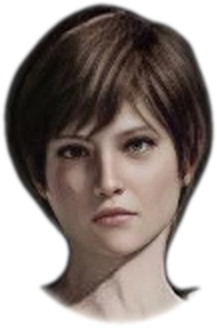
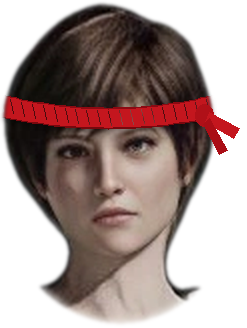
v3.68 : Rebecca — croix rouge médicale sur le gilet, bandeau rouge au front
Claude-Session: https://claude.ai/code/session_01WYc8bcxVUTnPR8YQxCHawi

diff --git a/public/matrice.js b/public/matrice.js
@@ -221,7 +221,8 @@ export function dessinerBonhomme(o, tete) {
         x.fillStyle = "#e9e6dd"; x.beginPath(); x.moveTo(64, 150); x.lineTo(84, 150); x.quadraticCurveTo(100, 170, 116, 150); x.lineTo(136, 150); x.lineTo(140, 258); x.lineTo(60, 258); x.closePath(); x.fill();
         x.fillStyle = "#1c1c1c"; x.fillRect(66, 146, 9, 36); x.fillRect(125, 146, 9, 36); for (const [a, b2] of [[60, 206], [130, 206], [70, 240], [94, 240], [118, 240]]) x.fillRect(a, b2, 12, 14);
         x.strokeStyle = "rgba(0,0,0,.18)"; x.lineWidth = 2; x.beginPath(); x.moveTo(100, 172); x.lineTo(100, 256); x.stroke(); poche(126, 252, 18, 22, "#e9e6dd");
-        x.fillStyle = "#2a2c26"; x.fillRect(68, 300, 26, 22); x.fillRect(106, 300, 26, 22); }   // les poches cargo
+        x.fillStyle = "#2a2c26"; x.fillRect(68, 300, 26, 22); x.fillRect(106, 300, 26, 22);   // les poches cargo
+        x.fillStyle = "#f4f2ec"; x.fillRect(77, 177, 20, 20); x.fillStyle = "#d4161e"; x.fillRect(84, 179, 6, 16); x.fillRect(79, 184, 16, 6); }   // la croix rouge médicale, sur la poitrine droite
       if (t === "leon") {   // l'uniforme bleu du R.P.D., le gilet pare-balles noir à rivets, la bandoulière en cuir, le ceinturon et l'étui de cuisse
         x.fillStyle = "#151517"; x.beginPath(); x.roundRect(62, 152, 76, 92, 10); x.fill();
         x.fillStyle = "#c9ccd0"; for (const [a, b2] of [[70, 160], [130, 160], [70, 236], [130, 236], [100, 236]]) { x.beginPath(); x.arc(a, b2, 2.4, 0, 7); x.fill(); }

diff --git a/public/index.html b/public/index.html
@@ -2811,6 +2811,7 @@
 
   /* ===== Version de l'appli et nouveautés (la plus récente en premier) ===== */
   const VERSIONS = [
+    ["3.68", "12 octobre 2026", ["Rebecca : une croix rouge médicale sur la poitrine de son gilet, et un bandeau rouge autour du front"]],
     ["3.67", "12 octobre 2026", ["Hill Valley : nouvelles têtes pour Lou (cheveux blancs, calot en papier) et Goldie Wilson"]],
     ["3.66", "12 octobre 2026", ["Hill Valley : le garçon au blouson « R » se promène, avec sa tête"]],
     ["3.65", "12 octobre 2026", ["Hill Valley : le monsieur au gilet se promène, avec sa tête"]],

diff --git a/public/sw.js b/public/sw.js
@@ -1,7 +1,7 @@
 // Service worker : permet d'installer l'appli (Android, iPhone, PC) et de l'ouvrir sans réseau.
 // Les pages sont servies « réseau d'abord » (toujours la dernière version), les images « cache d'abord ».
 // Le courrier et le registre (/api/) ne sont jamais mis en cache.
-const CACHE = "caserne-nf-v186";
+const CACHE = "caserne-nf-v187";
 const SHELL = ["/", "/images/garde.jpg", "/images/pierre.jpg", "/images/escaliers/brique.jpg", "/manifest.webmanifest", "/icons/icon-192.png"];
 
 self.addEventListener("install", e => {
